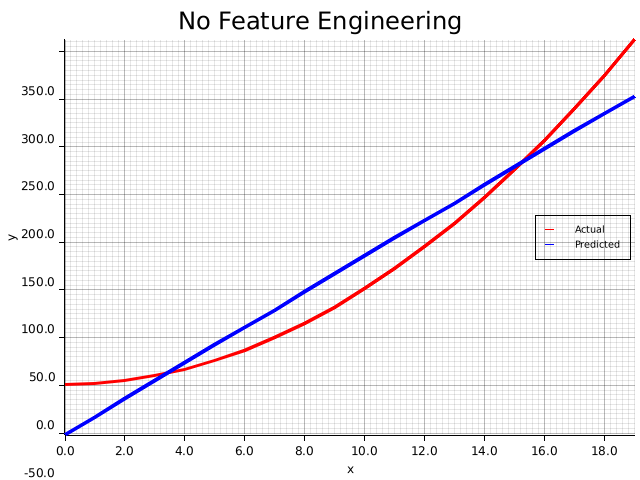
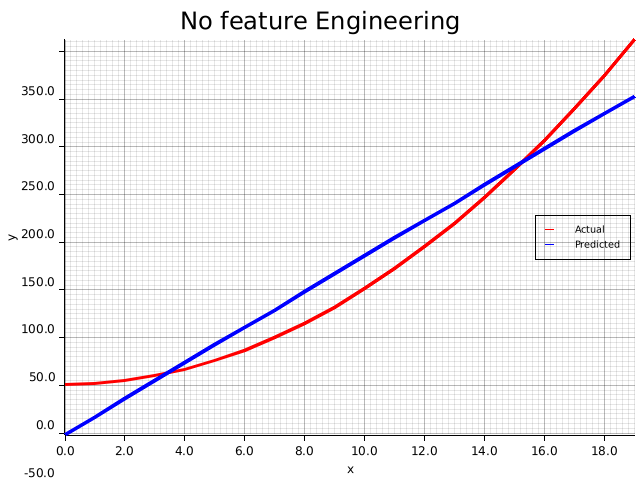
Updated label

Changed region(s): [[0.2812, 0.0, 0.7188, 0.0938]]

diff --git a/supervised-learning/module2/lab4-fe-and-pr/src/main.rs b/supervised-learning/module2/lab4-fe-and-pr/src/main.rs
@@ -7,6 +7,7 @@ fn plot_xy_actual_predicted(
     y_actual: &Array1<f64>,
     y_predicted: &Array1<f64>,
     path: &str,
+    header: &str,
 ) {
     use plotters::prelude::*;
     let root = BitMapBackend::new(path, (640, 480)).into_drawing_area();
@@ -20,7 +21,7 @@ fn plot_xy_actual_predicted(
     );
 
     let mut chart = ChartBuilder::on(&root)
-        .caption("No Feature Engineering", ("sans-serif", 30))
+        .caption(header, ("sans-serif", 30))
         .margin(5)
         .x_label_area_size(40)
         .y_label_area_size(60)
@@ -89,6 +90,7 @@ fn main() {
         &y_train,
         &y_predicted,
         "plot_no_feature_engineering.png",
+        "No feature Engineering",
     );
 
     // Feature engineering: create (20, 3) array with columns [x, x^2, x^3]
@@ -112,6 +114,7 @@ fn main() {
         &y_train,
         &y_predicted_fe,
         "plot_with_feature_engineering.png",
+        "Feature Engineering with x, x^2 and x^3",
     );
 
     // feature engineering and normalization
@@ -134,6 +137,7 @@ fn main() {
         &y_train,
         &y_predicted_fe,
         "plot_with_feature_engineering_and_normalization.png",
+        "Feature Engineering and Normalization",
     );
 
     // complex function
@@ -179,5 +183,6 @@ fn main() {
         &y_complex,
         &y_predicted_complex,
         "plot_with_complex_feature_engineering.png",
+        "Feature Engineering for cos(x/2) function",
     );
 }
